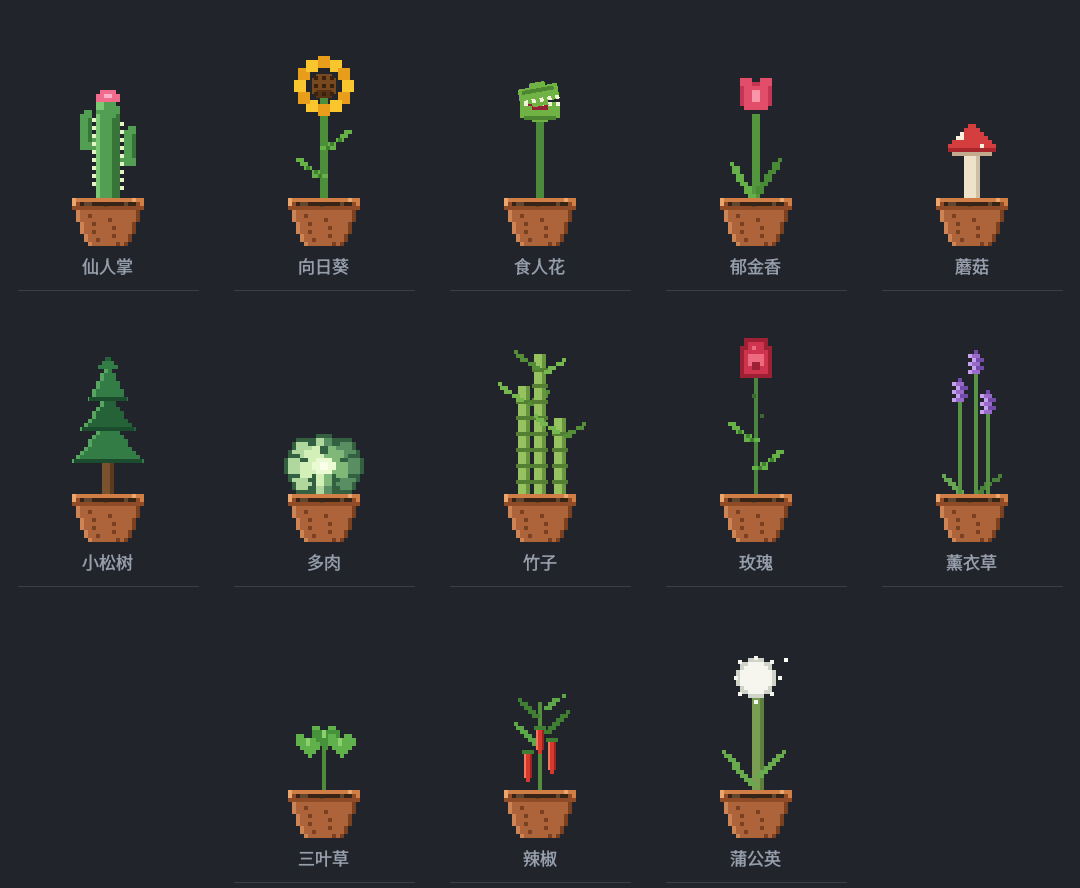
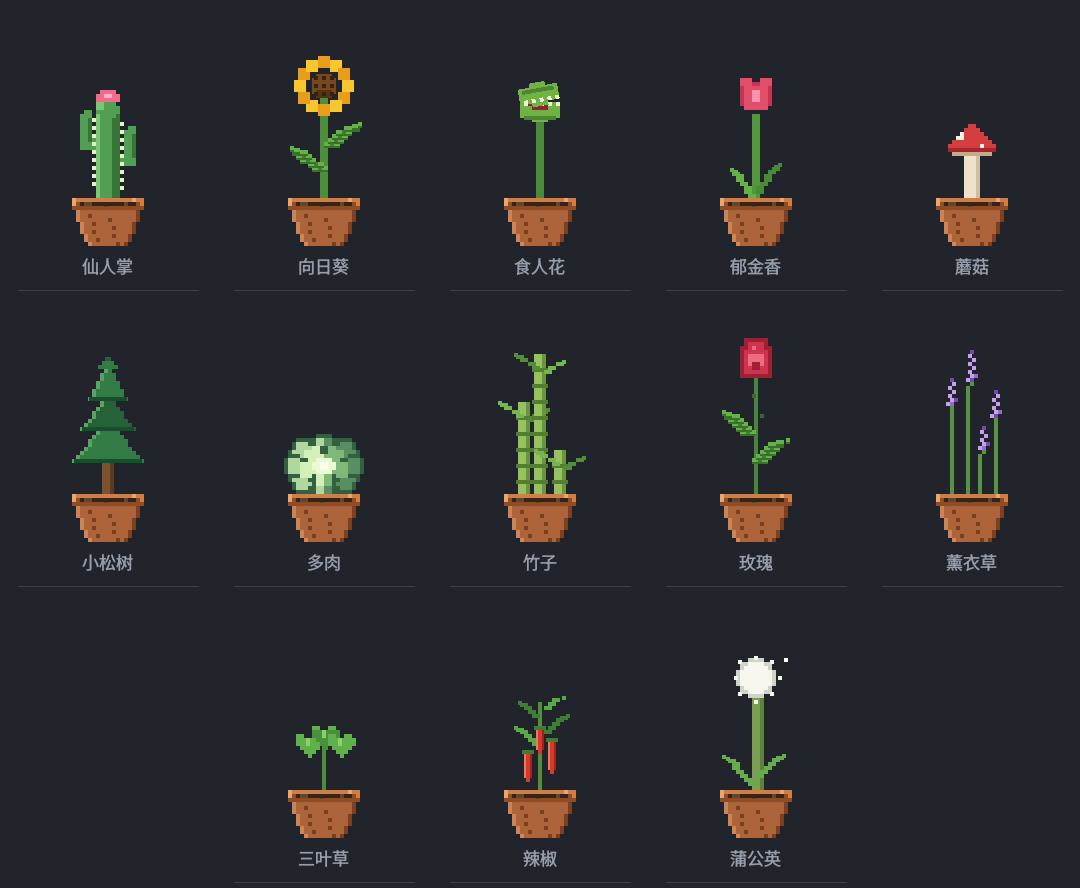
style: sync leaf shape, wind, lavender and golden-ratio tuning (upstream v3.6-v3.8)
Cosmetic only — no new plants, no weather, no persistence changes.

Sway and wind:
- Spring softened from 110/6.5 to 72/4.6 (damping ratio 0.31 -> 0.27)
- Constant breeze added: three sines at 0.7 / 1.73 / 3.1 rad/s summed, so
  the motion never repeats on a visible beat, modulated by a slow gust
- Each pot gets its own phase offset, otherwise a row of pots sways in
  lockstep which looks worse than standing still
- g_storm kept as a placeholder at 0 so the formulas already match
  upstream's weather version

Leaf shape (affects all 13 plants, they share the primitive):
- DrawPixelLeaf: first 70% narrows slowly, last 30% tapers to a point;
  the tip also flattens and droops instead of climbing a full cell per row
- New optional shade parameter defaults to nullptr, so no call site had to
  change
- Vertical rise computed from rows*PIX rather than len, which keeps the
  geometry consistent when the pot is scaled

Layout:
- Sunflower and rose leaves moved to the golden-section positions
  0.382 / 0.618
- Bamboo stalks follow a phi chain 158 / 98 / 61
- Lavender redrawn: four slender spikes with 5-7 grains each, alternating
  light/dark per spike, tip spacing >= 11px so they read as four

Two upstream notes that do not match the code, both documented in
TECHNICAL.md: the "gust every 4.3s" comment confuses frequency with
period (it is 27s), and the two-segment horizontal slope cancels out to
plain k, so the intended "flatter tip" never renders.

diff --git a/src/main.cpp b/src/main.cpp
@@ -220,17 +220,37 @@ static void FillPixelEllipse(QPainter& g, const QColor& col,
 // 像素叶片：从 (x,y) 往 dir 方向斜着伸出的阶梯叶，逐格收窄
 static void DrawPixelLeaf(QPainter& g, float x, float y, int dir,
                           float len, float span, float halfW,
-                          const QColor& col, const QColor* vein)
+                          const QColor& col, const QColor* vein,
+                          const QColor* shade = nullptr)
 {
     int rows = (int)floorf(len / PIX + 0.5f);
-    if (rows < 1) rows = 1;
+    if (rows < 3) rows = 3;
+    const float y0 = SnapPx(y);
+
     for (int i = 0; i < rows; ++i) {
-        float k  = (float)(i + 1) / (float)rows;
-        float cx = SnapPx(x + (float)dir * span * k);
-        float hw = SnapPx(halfW * (1.0f - k * 0.7f));
+        const float k = (float)(i + 1) / (float)rows;
+
+        // 宽度：前 70% 缓慢收窄（基部饱满），后 30% 迅速收成尖
+        float hw;
+        if (k < 0.7f) hw = halfW * (1.0f - k * 0.42f);
+        else          hw = halfW * (1.0f - 0.7f * 0.42f) * (1.0f - (k - 0.7f) / 0.3f);
+        hw = SnapPx(hw);
         if (hw < PIX * 0.5f) hw = PIX * 0.5f;
-        float yy = SnapPx(y) - (float)(i + 1) * PIX;
+
+        // 横向：匀速斜伸。上游原文写的是分段斜率（前 70% 与后 30% 各一段），
+        // 但两段的系数相乘后都化简成 k，实际渲染就是匀速，这里如实照搬。
+        const float cx = SnapPx(x + (float)dir * span * k);
+
+        // 纵向：前 70% 每行上爬一格，后 30% 每行只爬半格，叶尖放平下垂
+        // （用 rows*PIX 而不是 len：两者在 g_scale=1 时相等，缩放时前者不会错位）
+        const float seg  = 0.7f * (float)rows * PIX;
+        const float rise = (k <= 0.7f)
+                         ? (float)(i + 1) * PIX
+                         : seg + ((float)(i + 1) - 0.7f * (float)rows) * PIX * 0.5f;
+        const float yy = y0 - rise;
+
         FillRectF(g, col, cx - hw, yy, hw * 2.0f, PIX);
+        if (shade) FillRectF(g, *shade, cx - hw, yy + PIX, hw * 2.0f, PIX * 0.5f);
         if (vein && i * 2 < rows)
             FillRectF(g, *vein, cx - PIX * 0.5f, yy, PIX, PIX);
     }
@@ -313,13 +333,21 @@ static PtF DrawBentStem(QPainter& g, float baseX, float baseY, float height,
     return PtF{ tipX, y0 - (float)rows * PIX };
 }
 
-static void DrawLeaf(QPainter& g, float soilY, float height, float p, float sway, int dir)
+static void DrawLeaf(QPainter& g, float soilY, float height, float p, float sway,
+                     int dir, float t)
 {
-    const QColor leaf = C(100, 178, 72);
-    const QColor vein = C(64, 126, 48);
-    float x = sway * 46.0f * g_scale * powf(p, 1.9f);
-    float y = soilY - height * p;
-    DrawPixelLeaf(g, x, y + PIX * 3.0f, dir, 20.0f, 24.0f, 8.0f, leaf, &vein);
+    const QColor leaf  = C(100, 178, 72);
+    const QColor vein  = C(64, 126, 48);
+    const QColor shade = C(56, 112, 44);
+
+    const float x = sway * 46.0f * g_scale * powf(p, 1.9f);
+    const float y = soilY - height * p;
+    // 叶片自身的颤动，越靠叶尖幅度越大（p 是叶位在茎上的比例）。
+    // 吸附到 4px 网格后表现为整格的轻微跳动 —— 像素画式的"呼吸"。
+    const float flutter = sinf(t * 1.9f + height * 0.11f + (float)dir * 2.0f)
+                        * PIX * 2.0f * p;
+    DrawPixelLeaf(g, x + flutter, y + PIX * 3.0f, dir, 26.0f, 30.0f, 9.0f,
+                  leaf, &vein, &shade);
 }
 
 static void DrawSunflowerHead(QPainter& g, float cx, float cy, float sway, float t)
@@ -357,8 +385,9 @@ static void DrawSunflower(QPainter& g, float soilY, float sway, float t)
     const QColor stem = C(76, 142, 58);
     const float h = 108.0f;
     PtF tip = DrawBentStem(g, 0.0f, soilY, h, sway, stem, 7.0f);
-    DrawLeaf(g, soilY, h, 0.34f, sway, -1);
-    DrawLeaf(g, soilY, h, 0.58f, sway, +1);
+    // 叶位取黄金分割点 1/φ² (0.382) 与 1/φ (0.618)，上游 v3.8.2 的美学微调
+    DrawLeaf(g, soilY, h, 0.382f, sway, -1, t);
+    DrawLeaf(g, soilY, h, 0.618f, sway, +1, t);
     DrawSunflowerHead(g, tip.x, tip.y - 10.0f, sway, t);
 }
 
@@ -647,10 +676,11 @@ static void DrawBamboo(QPainter& g, float soilY, float sway, float t)
     const QColor leafDark  = C(84, 142, 56);
 
     struct Stalk { float x, h, ph; };
+    // 三竿高度按 φ 链递减：158 / 158÷φ ≈ 98 / 98÷φ ≈ 61（上游 v3.8.2）
     const Stalk stalks[3] = {
-        { -16.0f, 112.0f, 0.0f },
+        { -16.0f,  98.0f, 0.0f },
         {   0.0f, 158.0f, 1.2f },
-        {  20.0f,  94.0f, 2.4f }
+        {  20.0f,  61.0f, 2.4f }
     };
 
     g.save();
@@ -690,8 +720,9 @@ static void DrawRose(QPainter& g, float soilY, float sway, float t)
     const float h = 124.0f;
     PtF tip = DrawBentStem(g, 0.0f, soilY, h, sway, stem, 5.0f);
 
-    DrawLeaf(g, soilY, h, 0.32f, sway, 1);
-    DrawLeaf(g, soilY, h, 0.55f, sway, -1);
+    // 叶位取黄金分割点（上游 v3.8.2）
+    DrawLeaf(g, soilY, h, 0.382f, sway, 1, t);
+    DrawLeaf(g, soilY, h, 0.618f, sway, -1, t);
     FillRectF(g, thorn, SnapPx(tip.x) - 4.0f, SnapPx(tip.y) + 20.0f, 4.0f, 4.0f);
     FillRectF(g, thorn, SnapPx(tip.x) + 4.0f, SnapPx(tip.y) + 40.0f, 4.0f, 4.0f);
 
@@ -716,49 +747,52 @@ static void DrawRose(QPainter& g, float soilY, float sway, float t)
 static void DrawLavender(QPainter& g, float soilY, float sway, float t)
 {
     const QColor stem     = C(88, 146, 68);
-    const QColor leaf     = C(104, 166, 84);
-    const QColor leafDark = C(72, 130, 58);
     const QColor budA     = C(152, 106, 202);
     const QColor budB     = C(116, 74, 170);
     const QColor budLight = C(198, 160, 236);
 
-    struct Spike { float x, h, ph; };
-    const Spike spikes[3] = {
-        { -14.0f,  96.0f, 0.0f },
-        {   2.0f, 124.0f, 1.1f },
-        {  16.0f,  82.0f, 2.2f }
+    // 上游 v3.8.2 定稿：四穗、苗条、无根部细叶（花穗本身是观赏主体）。
+    // x / 高度错开，穗尖横向间距 ≥ 11px，最矮一根放中前，与右穗完全分离。
+    struct Spike { float x, h, ph, lean; int grains; };
+    const Spike spikes[4] = {
+        { -18.0f,  96.0f, 0.0f, -4.0f, 6 },   // 左后，偏高，左倾
+        {  -6.0f, 120.0f, 1.1f,  3.0f, 7 },   // 最高，右倾
+        {   6.0f,  52.0f, 2.0f,  4.0f, 5 },   // 最矮，中前
+        {  22.0f,  84.0f, 2.9f,  3.0f, 6 }    // 右侧独立一根
     };
 
     g.save();
     g.translate(0.0f, SnapPx(soilY));
 
-    // 贴地两片细叶
-    DrawPixelLeaf(g, -2.0f,  0.0f, -1, 24.0f, 28.0f, 6.0f, leaf, nullptr);
-    DrawPixelLeaf(g,  2.0f, -4.0f, +1, 20.0f, 26.0f, 6.0f, leafDark, nullptr);
-
-    for (int i = 0; i < 3; ++i) {
+    for (int i = 0; i < 4; ++i) {
         const Spike& sp = spikes[i];
-        int   rows = (int)floorf(sp.h / PIX + 0.5f);
-        float bend = sway * 14.0f + sinf(t * 0.9f + sp.ph) * 2.0f;
+        const int   rows = (int)floorf(sp.h / PIX + 0.5f);
+        const float bend = sway * 10.0f + sinf(t * 0.9f + sp.ph) * 2.0f + sp.lean;
 
-        // 茎：4px 宽，逐格往上，越靠上弯得越多
+        // 茎：一格宽，越靠上越往 bend 方向弯
         for (int r = 0; r < rows; ++r) {
-            float k  = (float)r / (float)rows;
-            float dx = SnapPx(sp.x + bend * k * k);
+            const float k  = (float)r / (float)rows;
+            const float dx = SnapPx(sp.x + bend * k * k);
             FillRectF(g, stem, dx - PIX * 0.5f, -(float)(r + 1) * PIX, PIX, PIX);
         }
 
-        // 花穗：茎尖往上堆 5 格，奇偶行左右错开半格
-        float tipX = SnapPx(sp.x + bend);
-        float tipY = -(float)rows * PIX;
-        for (int j = 0; j < 5; ++j) {
-            float y   = tipY - (float)(j + 1) * PIX;
-            QColor main = (j & 1) ? budB : budA;
-            float  off = (j & 1) ? PIX * 0.5f : -PIX * 0.5f;
-            FillRectF(g, main,     tipX - PIX * 1.5f + off, y, PIX * 3.0f, PIX);
-            FillRectF(g, budLight, tipX - PIX * 1.5f + off, y, PIX, PIX);
+        // 花穗：从茎尖往上 grains 粒。基部两粒占两格宽（有厚度），
+        // 其余全部一格宽（苗条），奇偶行错开半格。
+        const float tipX = SnapPx(sp.x + bend);
+        const float tipY = -(float)rows * PIX;
+        for (int j = 0; j < sp.grains; ++j) {
+            const float y   = tipY - (float)j * PIX;
+            const float w   = PIX * ((j < 2) ? 2.0f : 1.0f);
+            const float off = (j & 1) ? PIX * 0.5f : -PIX * 0.5f;
+            const float gx  = tipX + off;
+            // 每根穗的明暗节奏错开，四根并排时不至于同相
+            const bool  alt = ((j & 1) ^ (i & 1)) != 0;
+            FillRectF(g, alt ? budB : budA, gx - w * 0.5f, y, w, PIX);
+            FillRectF(g, budLight,          gx - w * 0.5f, y, PIX, PIX);
         }
-        FillRectF(g, budB, tipX - PIX * 0.5f, tipY - 6.0f * PIX, PIX, PIX);
+        // 顶芽
+        FillRectF(g, budB, tipX - PIX * 0.5f,
+                  tipY - (float)sp.grains * PIX, PIX, PIX);
     }
 
     g.restore();
@@ -1032,6 +1066,7 @@ struct Pot {
     float     moisture = 1.0f;       // 泥土水分 1=湿透 0=干透
     float     waterAnim = 0.0f;      // 浇水动画剩余时间（秒）
     float     shedTimer = 0.0f;      // 枯叶掉落的节流计时
+    float     windPh = 0.0f;         // 常年微风的相位偏移，每盆错开
 };
 
 static float PotMaxY(float angle, float potScale = 1.0f)
@@ -1154,6 +1189,29 @@ static void tbpLog(const QString& msg)
 }
 
 static inline float Absf(float v) { return v < 0.0f ? -v : v; }
+
+// -----------------------------------------------------------------------------
+//  常年微风（上游 v3.6.0）
+//
+//  让植物在没有交互时也轻轻摇。风是两列以上的正弦叠加，周期互不成整数比，
+//  所以看起来不循环 —— 单一 sin 会让人看出节拍。
+//  返回值 7.5 + 4.0 + 2.5 的量级是"px 级力矩"，直接加在摆动弹簧的速度上。
+// -----------------------------------------------------------------------------
+static inline float WindForce(float t)
+{
+    // 强弱起伏：sin(t * 0.23) 的周期是 2π/0.23 ≈ 27 秒。
+    // （上游注释写的是"约 4.3 秒一阵"，那是把频率 0.23 当成了周期，实际慢得多）
+    const float gust = 0.55f + 0.45f * sinf(t * 0.23f + 0.9f);
+    return gust * (7.5f * sinf(t * 0.7f)
+                 + 4.0f * sinf(t * 1.73f + 1.3f)
+                 + 2.5f * sinf(t * 3.1f + 0.7f));
+}
+
+// 天气系统的"风雨增幅"。本移植版尚未移植天气，恒为 0；
+// 保留这个变量是为了让下面的风力和摆动上限公式与上游保持一致，
+// 以后加天气时只需要更新它的值。
+static float g_storm = 0.0f;
+
 
 #if defined(TBP_HAVE_X11)
 // 桌面 / 面板 / 菜单 / 通知这类窗口不能当"地面"，否则花盆会被顶到屏幕最上方。
@@ -2216,6 +2274,8 @@ void Garden::spawnPot(float x, float y, PlantType plant)
     // 穿越检测的"上一帧最低点"必须初始化成当前位置。
     // 留成 -1e9 的话第一帧会把任何顶边都当成"刚跨过去"，花盆会被吸到屏幕最上方。
     p.prevLowestAbs = p.body.y;
+    // 每盆风相位错开，否则多盆会整齐划一地摇，很假
+    p.windPh = (float)(rand() % 1000) * 0.00628f;      // 0 ~ 2π
     m_pots.push_back(p);
 }
 
@@ -2589,12 +2649,16 @@ void Garden::updatePot(Pot& p, float dt)
         }
     }
 
-    // 植物摆动：阻尼弹簧
-    const float stiffness = 110.0f;
-    const float damping = 6.5f;
+    // 植物摆动：阻尼弹簧（上游 v3.6 调软：更慢、更柔）
+    const float stiffness = 72.0f;               // 原 110：弯得少了，回弹慢了
+    const float damping = 4.6f;                  // 原 6.5：欠阻尼更明显，像有韧性
     p.swayVel += (-stiffness * p.sway - damping * p.swayVel) * dt;
+    // 常年微风：静止时也轻轻摇。驱动频率 0.7 rad/s 远低于固有频率
+    // √72 ≈ 8.5 rad/s，响应近似准静态，表现为缓慢的整体倾倒而不是抖动。
+    p.swayVel += WindForce((float)m_time + p.windPh) * (1.0f + g_storm * 2.2f) * dt;
     p.sway += p.swayVel * dt;
-    p.sway = Clampf(p.sway, -1.3f, 1.3f);
+    const float swayLimit = 1.3f + g_storm * 0.5f;   // 大风天允许摆得更多
+    p.sway = Clampf(p.sway, -swayLimit, swayLimit);
 }
 
 void Garden::updatePhysics(float dt)

diff --git a/TECHNICAL.md b/TECHNICAL.md
@@ -59,6 +59,77 @@ Wayland 协议禁止客户端查询其它应用的窗口位置，`_NET_CLIENT_LI
 
 调参没有靠反复编译试，而是用 Python 按 `dt=1/60` 复现同样的积分顺序，先算出过冲、周期、收敛时间，再写进 C++。物理手感这种东西，能提前算就别盲试。
 
+## 摆动与微风：三列正弦 + 每盆相位
+
+植物静止时也在轻轻摇，这不是装饰动画，而是往摆动弹簧上持续施加一个外力。
+
+风由三列正弦相加而成，频率分别是 0.7 / 1.73 / 3.1 rad/s，互不成整数比，所以肉眼看不出循环节拍——单一 `sin` 会让人几秒后就发现"在重复"。
+
+```cpp
+const float gust = 0.55f + 0.45f * sinf(t * 0.23f + 0.9f);   // 强弱起伏
+return gust * (7.5f * sinf(t * 0.7f)
+             + 4.0f * sinf(t * 1.73f + 1.3f)
+             + 2.5f * sinf(t * 3.1f + 0.7f));
+```
+
+三个数字都值得记：
+
+- **每盆一个随机相位 `windPh`**（`rand() % 1000 * 0.00628`，覆盖 0~2π）。共用相位的话，摆十个花盆会看到十个一模一样的动作，比不动还假。
+- **驱动频率远低于固有频率**。弹簧刚度 72，`ω = √72 ≈ 8.5 rad/s`；风的最高分量才 3.1。响应近似准静态，表现是缓慢的整体倾倒，而不是高频抖动。
+- **强弱起伏的周期是 27 秒**，不是上游注释写的"约 4.3 秒"。`sin(t * 0.23)` 的周期是 `2π/0.23`，原文把频率当成了周期。照抄数字没问题，照抄注释就会写错。
+
+数值验证（60fps 积分，跳过 20 秒启动瞬态）：
+
+| 量 | 实测 |
+| --- | --- |
+| `sway` 稳态范围 | −0.182 ~ +0.186 |
+| 茎顶水平位移 | ±8px（约 2 个像素格） |
+| 贴上限（1.3）的帧 | 0% |
+
+摆幅只有 2 格，所以是"若有若无地动"，不是"被风吹得乱晃"。上游说明里提到的 ±79px 与代码不符——按 `sway * 46` 的实际系数，需要 `sway` 达到 1.7 才可能出现，而它被 clamp 在 1.3，稳态更是只到 0.18。
+
+弹簧参数同时从 `110 / 6.5` 调软到 `72 / 4.6`（阻尼比 0.31 → 0.27）。副作用是浇水冲量的效果被放大了：同一个 `swayVel += 6.0`，茎顶摆幅从 16px 变成 21px，过零时间从 0.32s 延到 0.38s。想完全回到原来的幅度，把冲量改成 4.5 即可。
+
+`g_storm` 是天气系统的风雨增幅，本移植版恒为 0。保留它在公式里，是为了以后加天气时只改这一个值，而不是回头改公式。
+
+## 叶片形状：前 70% 饱满，后 30% 收尖
+
+`DrawPixelLeaf` 是所有植物共用的叶子基元，它改一次，用到它的植物外观全变。
+
+旧版是线性收窄（`halfW * (1 - k * 0.7)`）加匀速斜伸，叶子看起来像三角形。新版分两段：
+
+```cpp
+if (k < 0.7f) hw = halfW * (1.0f - k * 0.42f);                    // 缓慢收窄，基部饱满
+else          hw = halfW * 0.706f * (1.0f - (k - 0.7f) / 0.3f);   // 迅速收尖
+```
+
+纵向也分两段：前 70% 每行上爬一格，后 30% 每行只爬半格，叶尖放平并微微下垂。
+
+新增的 `shade` 参数是可选的（默认 `nullptr`），在叶片底部铺半格阴影。**旧调用点一个都不用改**，这个默认值就是为了不惊动它们。
+
+有两个坑值得说：
+
+**上游那段"横向后 30% 越来越平"的代码其实没生效。** 原文写的是分段斜率：
+
+```cpp
+if (k <= 0.7f) fx = k / 0.7f * 0.7f;              // = k
+else           fx = 0.7f + (k - 0.7f) / 0.3f * 0.3f;   // = 0.7 + (k - 0.7) = k
+```
+
+两段的系数相乘后都恒等于 `k`，实际渲染是匀速斜伸。移植时照搬了实际效果（匀速），没有照搬注释里的意图——否则外观会和原版不一致。
+
+**纵向用一个和 `rows` 对齐的量，而不是 `len`。** 上游写的是 `0.7f * len`，在 `g_scale = 1` 时恰好等于 `0.7f * rows * PIX`，但放大 1.5 倍后两者会错开，叶尖出现一格错位。移植版统一用 `0.7f * rows * PIX`，缩放后几何仍然自洽。
+
+顺带的版式微调，都是一行常数：
+
+| 改动 | 数值 |
+| --- | --- |
+| 向日葵 / 玫瑰叶位 | 取茎高的 `1/φ²` (0.382) 与 `1/φ` (0.618)，原来是 0.34/0.58 与 0.32/0.55 |
+| 竹子三竿高度 | φ 链 158 / 98 / 61，原来是 112 / 158 / 94 |
+| 薰衣草 | 从 3 根粗穗改成 4 根苗条穗，穗粒数 5~7 各不相同，穗尖横向间距 ≥ 11px |
+
+薰衣草值得多说一句：旧版只画 3 根穗、每穗 5 粒、每粒 3 格宽，三根穗会糊成一片。新版每根穗的粒数不同（6/7/5/6）、明暗节奏按 `(j ^ i) & 1` 错开、最矮那根放中前且与右穗完全分离，四根才看得出是四根。
+
 ## 枯萎：在绘制基本元上做，而不是改十三个函数
 
 缺水时要让叶子从绿变枯黄。直觉做法是给每种植物的绘制函数加一个"枯萎程度"参数，但那意味着改十三个函数、每个函数里挑出"哪些是叶子"。

diff --git a/README.md b/README.md
@@ -25,6 +25,7 @@
 ## 特性
 
 - **十三种植物**：仙人掌、向日葵、食人花、郁金香、蘑菇、小松树、多肉、竹子、玫瑰、薰衣草、三叶草、辣椒、蒲公英
+- **会摇**：不碰它的时候也有微风，三列正弦叠加，每盆相位错开，摆幅约两个像素格
 - **会渴**：泥土水分随时间蒸发（默认 30 分钟干透），缺水后叶子从绿变枯黄，还会往下掉枯叶碎屑。右键「浇水」补回来，浇下的那一下植物会晃一下
 - **单盆缩放**：每个花盆可以独立调大调小（0.65~1.45 倍），互不影响
 - **导出图片**：右键可把当前这株导出成透明底 PNG
